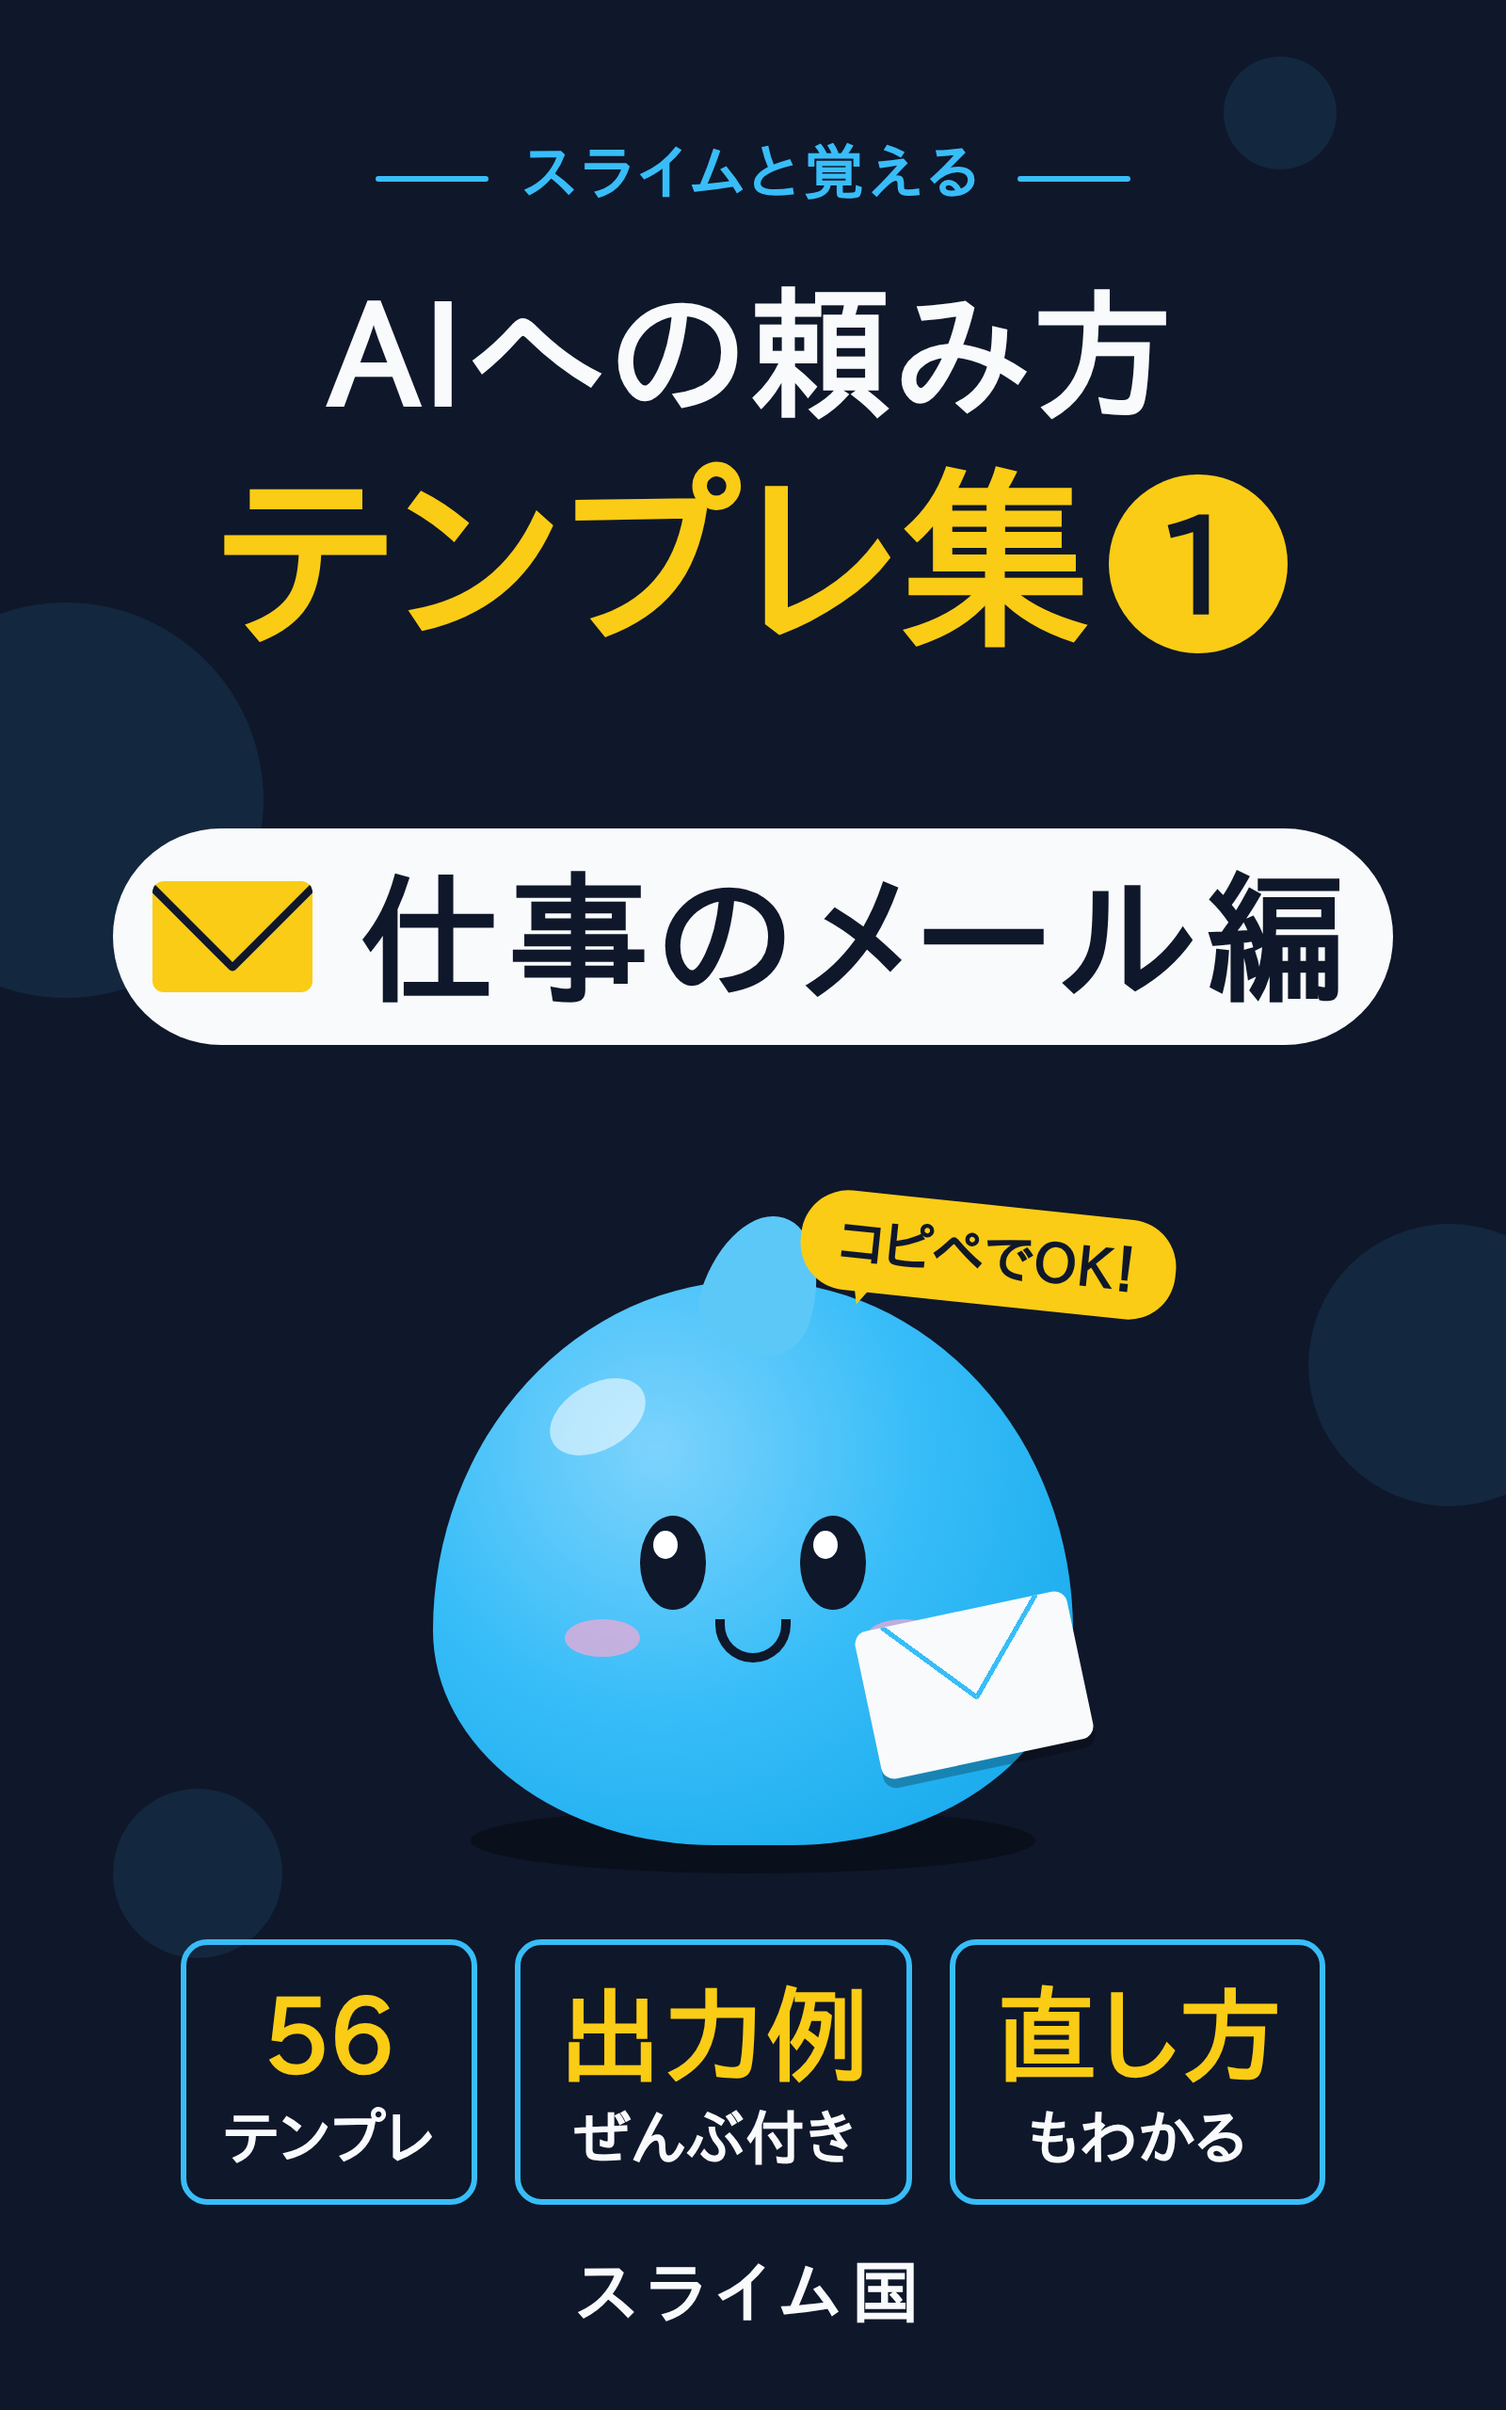
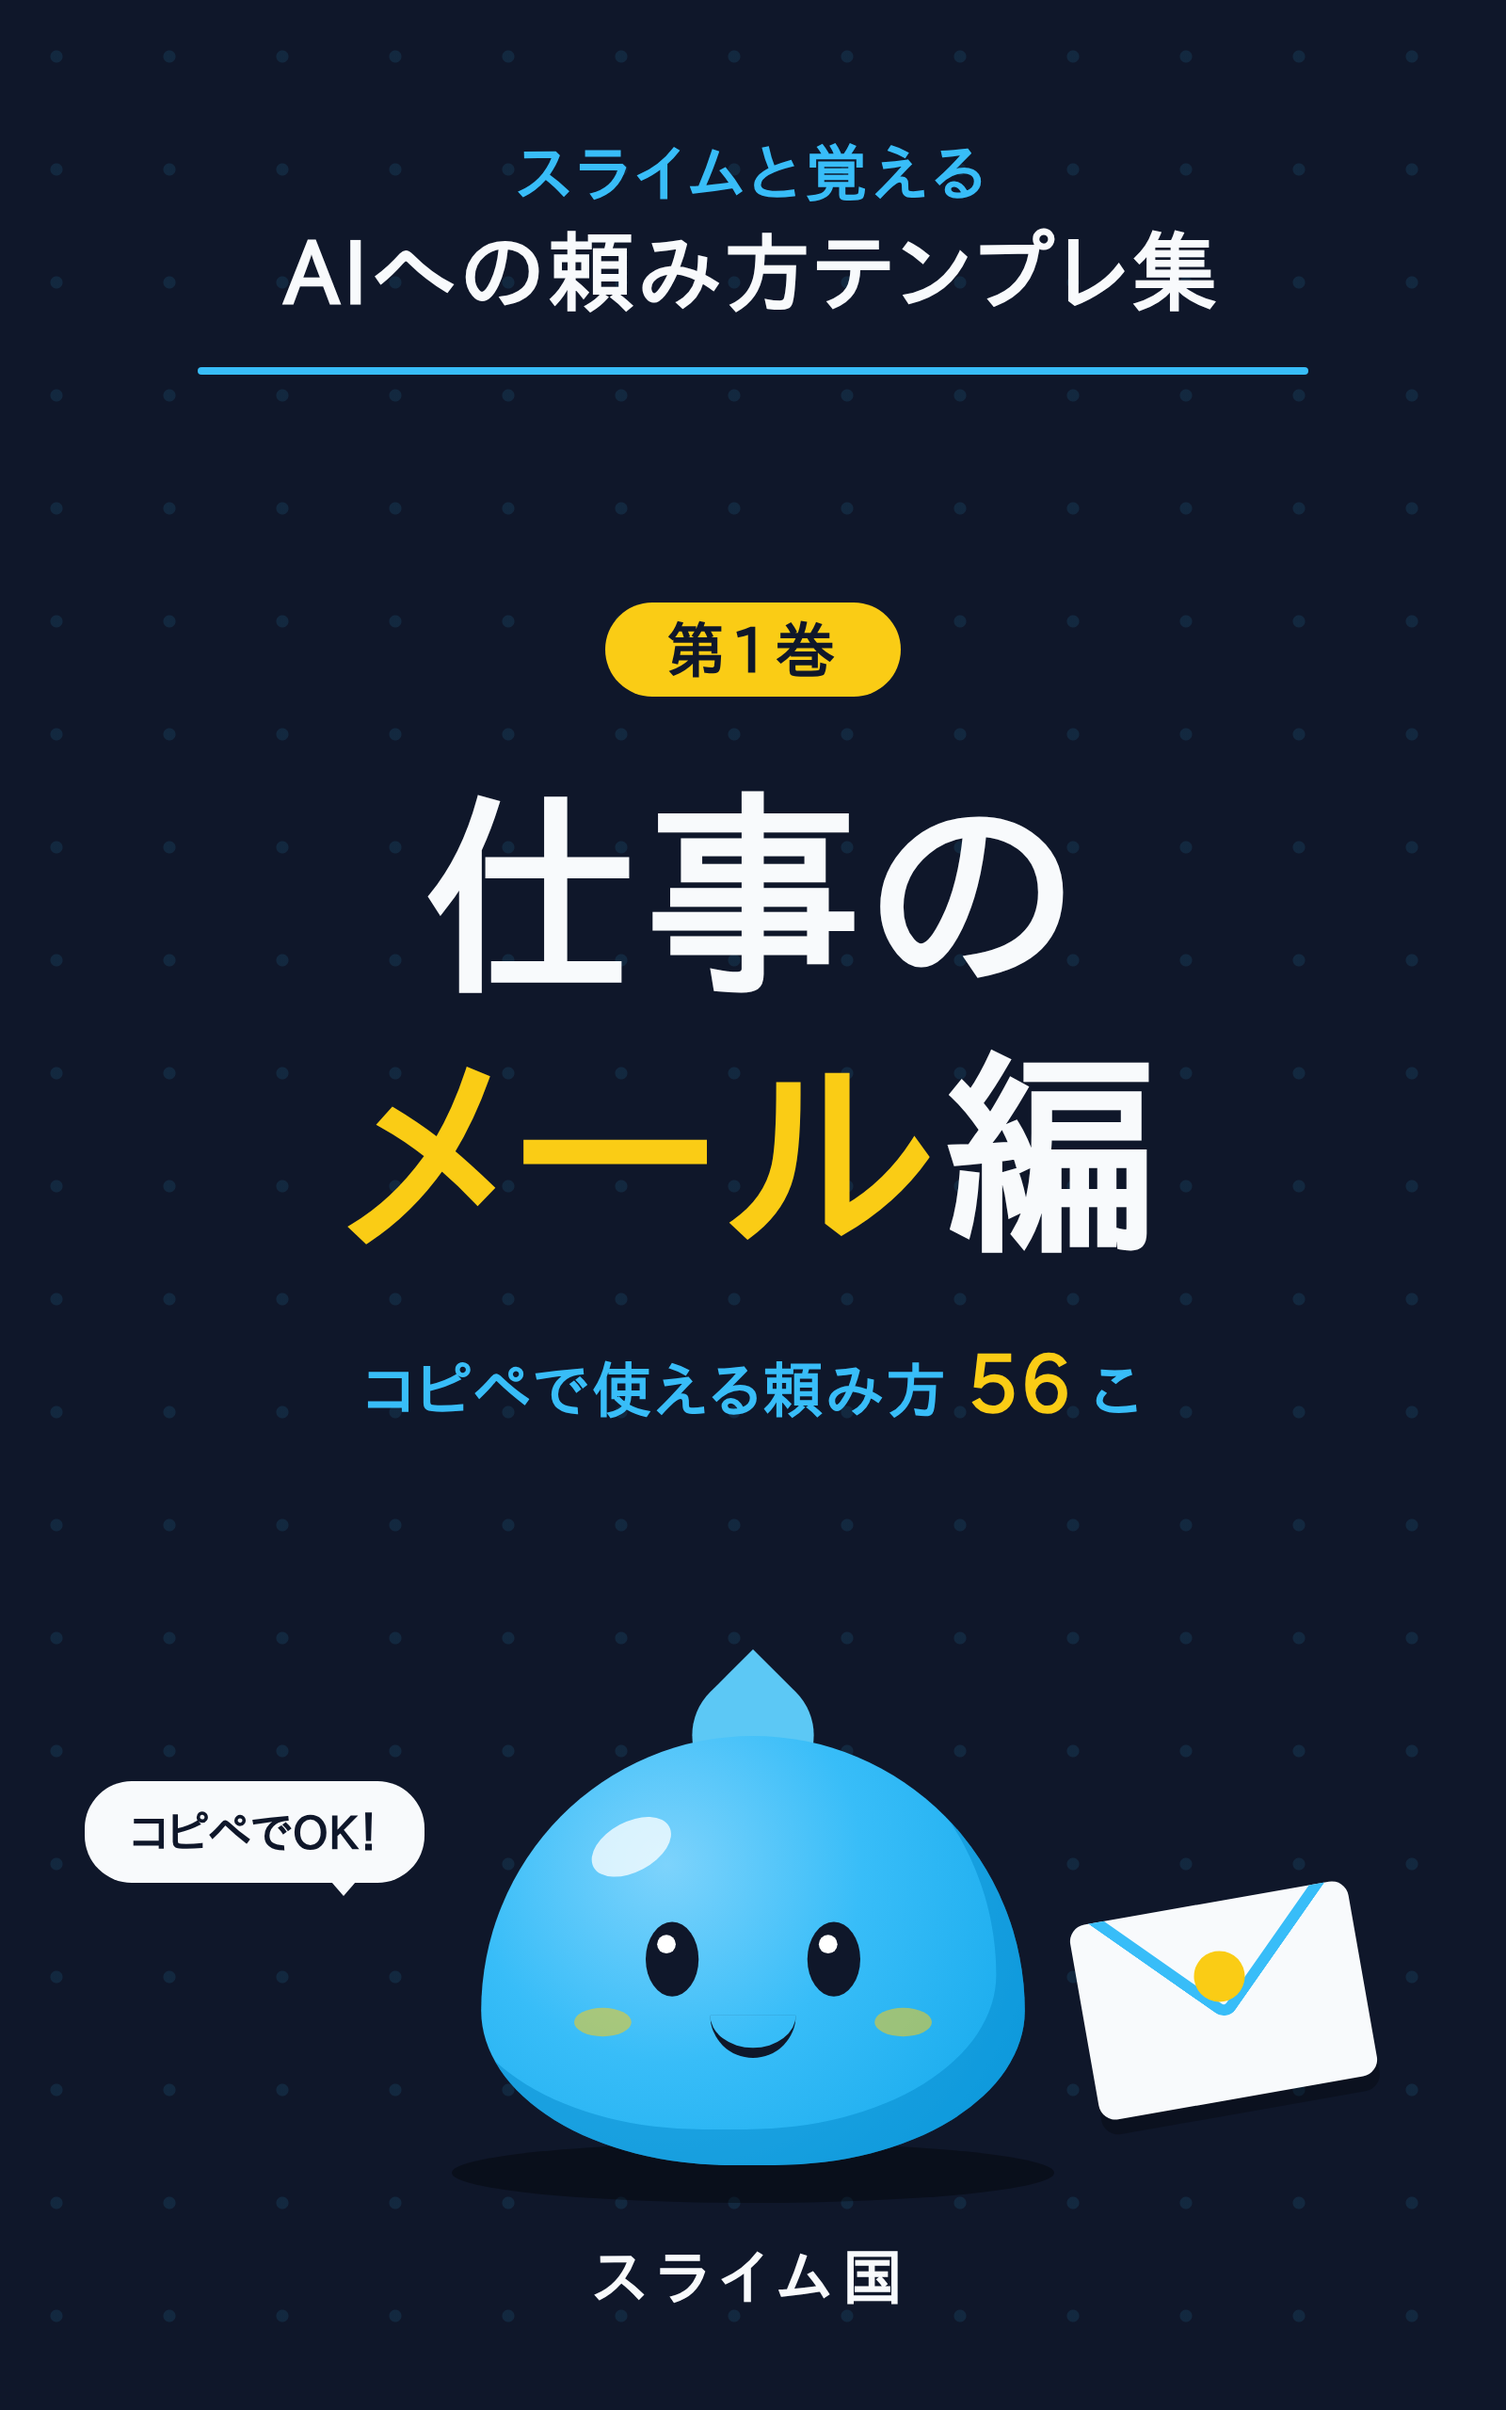
Kindle第1巻の表紙をシリーズのレイアウトにそろえる
Claude-Session: https://claude.ai/code/session_01WuirSq2D1KSbpHxewyxNPH

Changed region(s): [[0.0625, 0.0625, 0.9375, 0.9688], [0.0312, 0.7188, 0.2812, 0.9062], [0.0938, 0.8125, 0.125, 0.9062]]

diff --git a/products/kindle/vol1_email/cover.html b/products/kindle/vol1_email/cover.html
@@ -2,97 +2,177 @@
 <html lang="ja">
 <head>
 <meta charset="utf-8">
-<title>Vol1 Cover</title>
+<title>第1巻 表紙</title>
 <style>
-  :root{
-    --bg:#0F172A; --fg:#F8FAFC; --accent:#FACC15; --sub:#38BDF8;
-    --slime:#38BDF8; --slime-dark:#0EA5E9;
+  /* ブランドカラー（brand/guidelines.md） */
+  :root {
+    --bg: #0F172A;
+    --text: #F8FAFC;
+    --accent: #FACC15;
+    --sub: #38BDF8;
   }
-  *{margin:0;padding:0;box-sizing:border-box}
-  html,body{width:1600px;height:2560px;overflow:hidden;background:var(--bg)}
-  body{font-family:"IPAPGothic","IPAGothic","WenQuanYi Zen Hei",sans-serif;color:var(--fg);position:relative}
+  * { margin: 0; padding: 0; box-sizing: border-box; }
+  html, body { width: 1600px; height: 2560px; overflow: hidden; }
+  body {
+    background: var(--bg);
+    color: var(--text);
+    font-family: "IPAPGothic", "IPAGothic", "WenQuanYi Zen Hei", sans-serif;
+    position: relative;
+  }
+  /* 背景の小さな水玉 */
+  .dots {
+    position: absolute; inset: 0;
+    background-image: radial-gradient(rgba(56,189,248,0.10) 6px, transparent 7px);
+    background-size: 120px 120px;
+  }
 
-  /* 背景の水玉 */
-  .dot{position:absolute;border-radius:50%;background:var(--sub);opacity:.10}
+  /* ===== 上部：シリーズ名（全巻共通の位置・大きさ） ===== */
+  .series {
+    position: absolute; top: 150px; left: 0; right: 0;
+    text-align: center;
+  }
+  .series .line1 { font-size: 66px; letter-spacing: 6px; color: var(--sub); font-weight: bold; }
+  .series .line2 { margin-top: 26px; font-size: 92px; letter-spacing: 4px; font-weight: bold; }
+  .series .rule {
+    margin: 56px auto 0; width: 1180px; height: 8px; border-radius: 4px;
+    background: var(--sub);
+  }
 
-  .series{position:absolute;top:150px;left:0;right:0;text-align:center;font-size:64px;letter-spacing:6px;color:var(--sub);font-weight:bold}
-  .series::before,.series::after{content:"";display:inline-block;width:120px;height:6px;background:var(--sub);vertical-align:middle;margin:0 36px;border-radius:3px}
+  /* ===== 中央：巻タイトル ===== */
+  .vol {
+    position: absolute; top: 640px; left: 0; right: 0; text-align: center;
+  }
+  .badge {
+    display: inline-block;
+    font-size: 64px; font-weight: bold; letter-spacing: 6px;
+    color: var(--bg); background: var(--accent);
+    padding: 18px 64px; border-radius: 60px;
+  }
+  .title {
+    margin-top: 70px;
+    font-size: 230px; line-height: 1.2; font-weight: bold; letter-spacing: 6px;
+  }
+  .title .accent { color: var(--accent); }
+  .tagline {
+    margin-top: 64px; font-size: 64px; letter-spacing: 3px; color: var(--sub); font-weight: bold;
+  }
+  .tagline b { color: var(--accent); font-size: 84px; }
 
-  .title{position:absolute;top:290px;left:0;right:0;text-align:center;font-weight:bold;line-height:1.12}
-  .title .l1{font-size:150px;letter-spacing:4px}
-  .title .l2{font-size:205px;letter-spacing:2px;margin-top:20px}
-  .title .l2 .y{color:var(--accent)}
-  .title .no{display:inline-block;width:190px;height:190px;border-radius:50%;background:var(--accent);color:var(--bg);font-size:140px;line-height:190px;vertical-align:18px;margin-left:16px}
+  /* ===== 下部：スライム（CSS図形） ===== */
+  .stage { position: absolute; left: 0; right: 0; bottom: 200px; height: 600px; }
+  .slime {
+    position: absolute; left: 50%; bottom: 60px; transform: translateX(-50%) scale(0.76);
+    transform-origin: bottom center;
+    width: 760px; height: 600px;
+  }
+  .slime .body {
+    position: absolute; inset: 0;
+    background: radial-gradient(circle at 34% 30%, #7DD3FC 0%, #38BDF8 42%, #0EA5E9 100%);
+    border-radius: 50% 50% 46% 46% / 64% 64% 36% 36%;
+    box-shadow: inset -40px -50px 0 rgba(2,132,199,0.45);
+  }
+  .slime .tip { /* しずくの先っぽ */
+    position: absolute; left: 50%; top: -86px; width: 170px; height: 170px;
+    transform: translateX(-50%) rotate(45deg);
+    background: #5CC8F5; border-radius: 0 50% 50% 50%;
+  }
+  .slime .shine {
+    position: absolute; left: 150px; top: 120px; width: 120px; height: 70px;
+    background: rgba(255,255,255,0.75); border-radius: 50%;
+    transform: rotate(-28deg);
+  }
+  .slime .eye {
+    position: absolute; top: 260px; width: 74px; height: 104px;
+    background: var(--bg); border-radius: 50%;
+  }
+  .slime .eye::after {
+    content: ""; position: absolute; top: 18px; left: 16px;
+    width: 26px; height: 26px; background: #fff; border-radius: 50%;
+  }
+  .slime .eye.l { left: 230px; }
+  .slime .eye.r { right: 230px; }
+  .slime .mouth {
+    position: absolute; left: 50%; top: 390px; transform: translateX(-50%);
+    width: 120px; height: 60px;
+    border-bottom: 14px solid var(--bg); border-radius: 0 0 70px 70px;
+  }
+  .slime .cheek {
+    position: absolute; top: 380px; width: 80px; height: 40px;
+    background: rgba(250,204,21,0.55); border-radius: 50%;
+  }
+  .slime .cheek.l { left: 130px; }
+  .slime .cheek.r { right: 130px; }
+  .shadow {
+    position: absolute; left: 50%; bottom: 20px; transform: translateX(-50%);
+    width: 640px; height: 64px; background: rgba(0,0,0,0.35); border-radius: 50%;
+  }
+  /* スライムが持つ「メール」の封筒 */
+  .env {
+    position: absolute; right: 150px; bottom: 130px;
+    width: 300px; height: 210px; background: var(--text);
+    border-radius: 18px; transform: rotate(-10deg);
+    box-shadow: 0 16px 0 rgba(0,0,0,0.25); overflow: hidden;
+  }
+  .env .flap { /* ふたのV字 */
+    position: absolute; left: 50%; top: -150px; width: 230px; height: 230px;
+    transform: translateX(-50%) rotate(45deg);
+    border-right: 12px solid var(--sub); border-bottom: 12px solid var(--sub);
+    border-radius: 0 0 16px 0;
+  }
+  .env .seal {
+    position: absolute; left: 50%; top: 52px; transform: translateX(-50%);
+    width: 54px; height: 54px; border-radius: 50%; background: var(--accent);
+  }
+  /* 吹き出し */
+  .bubble {
+    position: absolute; left: 90px; bottom: 360px;
+    background: var(--text); color: var(--bg);
+    font-size: 48px; font-weight: bold; padding: 30px 48px; border-radius: 50px;
+  }
+  .bubble::after {
+    content: ""; position: absolute; right: 60px; bottom: -40px;
+    border: 26px solid transparent; border-top: 30px solid var(--text);
+  }
 
-  .band{position:absolute;top:880px;left:120px;right:120px;height:230px;background:var(--fg);border-radius:115px;
-        display:flex;align-items:center;justify-content:center;gap:50px}
-  .band span{font-size:150px;font-weight:bold;color:var(--bg);letter-spacing:8px}
-
-  /* 封筒 */
-  .env{position:relative;width:170px;height:118px;background:var(--accent);border-radius:12px;overflow:hidden;flex:none}
-  .env::before{content:"";position:absolute;left:-10px;right:-10px;top:-86px;height:150px;border:10px solid var(--bg);transform:rotate(45deg) scale(.82);transform-origin:center;border-radius:6px;
-               width:150px;margin:0 auto;left:0;right:0}
-
-  /* スライム */
-  .slime-wrap{position:absolute;left:50%;top:1250px;transform:translateX(-50%);width:820px;height:760px}
-  .shadow{position:absolute;bottom:20px;left:110px;width:600px;height:70px;border-radius:50%;background:#000;opacity:.35}
-  .slime{position:absolute;bottom:50px;left:70px;width:680px;height:600px;background:radial-gradient(circle at 35% 30%,#7DD3FC 0%,var(--slime) 45%,var(--slime-dark) 100%);
-         border-radius:50% 50% 44% 44% / 62% 62% 38% 38%}
-  .tip{position:absolute;top:-70px;left:290px;width:120px;height:150px;background:#5CC8F8;border-radius:60% 60% 50% 50% / 80% 80% 40% 40%;transform:rotate(18deg)}
-  .shine{position:absolute;top:110px;left:120px;width:110px;height:70px;border-radius:50%;background:#fff;opacity:.55;transform:rotate(-30deg)}
-  .eye{position:absolute;top:250px;width:70px;height:100px;background:var(--bg);border-radius:50%}
-  .eye::after{content:"";position:absolute;top:16px;left:14px;width:26px;height:30px;border-radius:50%;background:#fff}
-  .eye.l{left:220px}.eye.r{left:390px}
-  .cheek{position:absolute;top:360px;width:80px;height:40px;border-radius:50%;background:#F9A8D4;opacity:.7}
-  .cheek.l{left:140px}.cheek.r{left:460px}
-  .mouth{position:absolute;top:360px;left:300px;width:80px;height:46px;border:10px solid var(--bg);border-top:none;border-radius:0 0 50px 50px}
-  /* スライムが持つ手紙 */
-  .letter{position:absolute;bottom:90px;right:-10px;width:230px;height:160px;background:var(--fg);border-radius:14px;transform:rotate(-12deg);box-shadow:0 10px 0 rgba(0,0,0,.25)}
-  .letter::before{content:"";position:absolute;left:30px;right:30px;top:0;height:95px;border-left:8px solid var(--sub);border-bottom:8px solid var(--sub);transform:scaleY(-1);
-                  background:linear-gradient(to bottom right,transparent 49%,var(--sub) 49%,var(--sub) 53%,transparent 53%) left/50% 100% no-repeat,
-                             linear-gradient(to bottom left,transparent 49%,var(--sub) 49%,var(--sub) 53%,transparent 53%) right/50% 100% no-repeat;border:none}
-  .bubble{position:absolute;top:30px;right:-40px;background:var(--accent);color:var(--bg);font-size:58px;font-weight:bold;padding:24px 40px;border-radius:50px;transform:rotate(6deg)}
-  .bubble::after{content:"";position:absolute;bottom:-34px;left:60px;border:20px solid transparent;border-top:28px solid var(--accent);border-left:6px solid transparent}
-
-  .points{position:absolute;top:2060px;left:0;right:0;display:flex;justify-content:center;gap:40px}
-  .pt{border:6px solid var(--sub);border-radius:28px;padding:26px 40px;font-size:64px;font-weight:bold;text-align:center;line-height:1.25}
-  .pt b{display:block;color:var(--accent);font-size:110px}
-
-  .author{position:absolute;bottom:90px;left:0;right:0;text-align:center;font-size:72px;font-weight:bold;letter-spacing:12px;color:var(--fg)}
+  /* 最下部：著者名 */
+  .author {
+    position: absolute; bottom: 110px; left: 0; right: 0; text-align: center;
+    font-size: 64px; letter-spacing: 12px; font-weight: bold;
+  }
 </style>
 </head>
 <body>
-  <div class="dot" style="width:420px;height:420px;left:-140px;top:640px"></div>
-  <div class="dot" style="width:300px;height:300px;right:-90px;top:1300px"></div>
-  <div class="dot" style="width:180px;height:180px;left:120px;top:1900px"></div>
-  <div class="dot" style="width:120px;height:120px;right:180px;top:60px"></div>
+  <div class="dots"></div>
 
-  <div class="series">スライムと覚える</div>
-
-  <div class="title">
-    <div class="l1">AIへの頼み方</div>
-    <div class="l2"><span class="y">テンプレ集</span><span class="no">1</span></div>
+  <div class="series">
+    <div class="line1">スライムと覚える</div>
+    <div class="line2">AIへの頼み方テンプレ集</div>
+    <div class="rule"></div>
   </div>
 
-  <div class="band"><div class="env"></div><span>仕事のメール編</span></div>
+  <div class="vol">
+    <div class="badge">第1巻</div>
+    <div class="title">仕事の<br><span class="accent">メール</span>編</div>
+    <div class="tagline">コピペで使える頼み方 <b>56</b> こ</div>
+  </div>
 
-  <div class="slime-wrap">
+  <div class="stage">
+    <div class="bubble">コピペでOK！</div>
     <div class="shadow"></div>
     <div class="slime">
       <div class="tip"></div>
+      <div class="body"></div>
       <div class="shine"></div>
-      <div class="eye l"></div><div class="eye r"></div>
-      <div class="cheek l"></div><div class="cheek r"></div>
+      <div class="eye l"></div>
+      <div class="eye r"></div>
+      <div class="cheek l"></div>
+      <div class="cheek r"></div>
       <div class="mouth"></div>
-      <div class="letter"></div>
     </div>
-    <div class="bubble">コピペでOK！</div>
-  </div>
-
-  <div class="points">
-    <div class="pt"><b>56</b>テンプレ</div>
-    <div class="pt"><b>出力例</b>ぜんぶ付き</div>
-    <div class="pt"><b>直し方</b>もわかる</div>
+    <div class="env">
+      <div class="flap"></div>
+      <div class="seal"></div>
+    </div>
   </div>
 
   <div class="author">スライム国</div>
